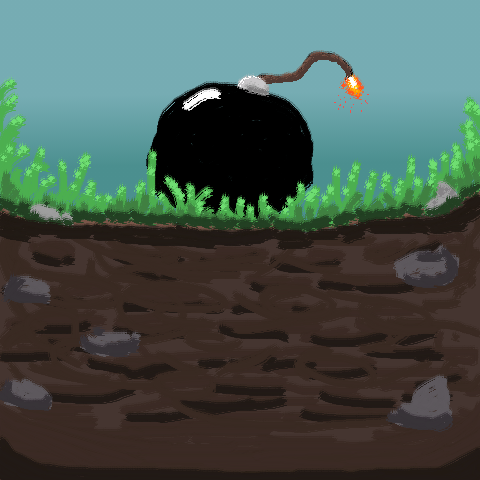
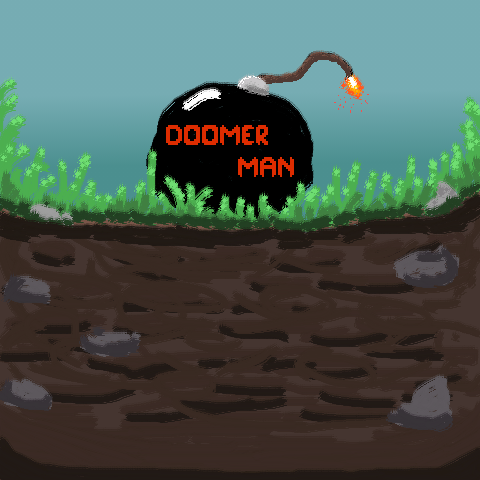
main menu

Changed region(s): [[0.3438, 0.25, 0.625, 0.375]]

diff --git a/Client/Form1.Designer.cs b/Client/Form1.Designer.cs
@@ -31,8 +31,8 @@
             this.btToggleSound = new System.Windows.Forms.Button();
             this.drawingArea = new System.Windows.Forms.PictureBox();
             this.panelMenu = new System.Windows.Forms.Panel();
-            this.btPlay = new System.Windows.Forms.Button();
             this.btQuit = new System.Windows.Forms.Button();
+            this.btPlay = new System.Windows.Forms.Button();
             ((System.ComponentModel.ISupportInitialize)(this.drawingArea)).BeginInit();
             this.panelMenu.SuspendLayout();
             this.SuspendLayout();
@@ -73,13 +73,31 @@
             this.panelMenu.Anchor = ((System.Windows.Forms.AnchorStyles)((((System.Windows.Forms.AnchorStyles.Top | System.Windows.Forms.AnchorStyles.Bottom) 
             | System.Windows.Forms.AnchorStyles.Left) 
             | System.Windows.Forms.AnchorStyles.Right)));
-            this.panelMenu.BackColor = System.Drawing.Color.Silver;
+            this.panelMenu.BackColor = System.Drawing.Color.Transparent;
+            this.panelMenu.BackgroundImage = global::OPP.Properties.Resources.MenuBackground;
+            this.panelMenu.BackgroundImageLayout = System.Windows.Forms.ImageLayout.Stretch;
             this.panelMenu.Controls.Add(this.btQuit);
             this.panelMenu.Controls.Add(this.btPlay);
             this.panelMenu.Location = new System.Drawing.Point(172, 275);
             this.panelMenu.Name = "panelMenu";
             this.panelMenu.Size = new System.Drawing.Size(164, 117);
             this.panelMenu.TabIndex = 2;
+            // 
+            // btQuit
+            // 
+            this.btQuit.Anchor = System.Windows.Forms.AnchorStyles.None;
+            this.btQuit.BackColor = System.Drawing.Color.Gainsboro;
+            this.btQuit.FlatAppearance.BorderColor = System.Drawing.Color.White;
+            this.btQuit.FlatAppearance.MouseDownBackColor = System.Drawing.Color.Gray;
+            this.btQuit.FlatStyle = System.Windows.Forms.FlatStyle.Flat;
+            this.btQuit.Font = new System.Drawing.Font("Ravie", 12F, System.Drawing.FontStyle.Bold, System.Drawing.GraphicsUnit.Point, ((byte)(0)));
+            this.btQuit.Location = new System.Drawing.Point(10, 60);
+            this.btQuit.Name = "btQuit";
+            this.btQuit.Size = new System.Drawing.Size(147, 43);
+            this.btQuit.TabIndex = 1;
+            this.btQuit.Text = "Quit";
+            this.btQuit.UseVisualStyleBackColor = false;
+            this.btQuit.Click += new System.EventHandler(this.btQuit_Click);
             // 
             // btPlay
             // 
@@ -97,22 +115,6 @@
             this.btPlay.Text = "Play";
             this.btPlay.UseVisualStyleBackColor = false;
             this.btPlay.Click += new System.EventHandler(this.btPlay_Click);
-            // 
-            // btQuit
-            // 
-            this.btQuit.Anchor = System.Windows.Forms.AnchorStyles.None;
-            this.btQuit.BackColor = System.Drawing.Color.Gainsboro;
-            this.btQuit.FlatAppearance.BorderColor = System.Drawing.Color.White;
-            this.btQuit.FlatAppearance.MouseDownBackColor = System.Drawing.Color.Gray;
-            this.btQuit.FlatStyle = System.Windows.Forms.FlatStyle.Flat;
-            this.btQuit.Font = new System.Drawing.Font("Ravie", 12F, System.Drawing.FontStyle.Bold, System.Drawing.GraphicsUnit.Point, ((byte)(0)));
-            this.btQuit.Location = new System.Drawing.Point(10, 60);
-            this.btQuit.Name = "btQuit";
-            this.btQuit.Size = new System.Drawing.Size(147, 43);
-            this.btQuit.TabIndex = 1;
-            this.btQuit.Text = "Quit";
-            this.btQuit.UseVisualStyleBackColor = false;
-            this.btQuit.Click += new System.EventHandler(this.btQuit_Click);
             // 
             // Form1
             // 

diff --git a/Client/Properties/Resources.Designer.cs b/Client/Properties/Resources.Designer.cs
@@ -89,5 +89,15 @@ namespace OPP.Properties {
                 return ((System.Drawing.Bitmap)(obj));
             }
         }
+        
+        /// <summary>
+        ///   Looks up a localized resource of type System.Drawing.Bitmap.
+        /// </summary>
+        internal static System.Drawing.Bitmap MenuBackground {
+            get {
+                object obj = ResourceManager.GetObject("MenuBackground", resourceCulture);
+                return ((System.Drawing.Bitmap)(obj));
+            }
+        }
     }
 }
